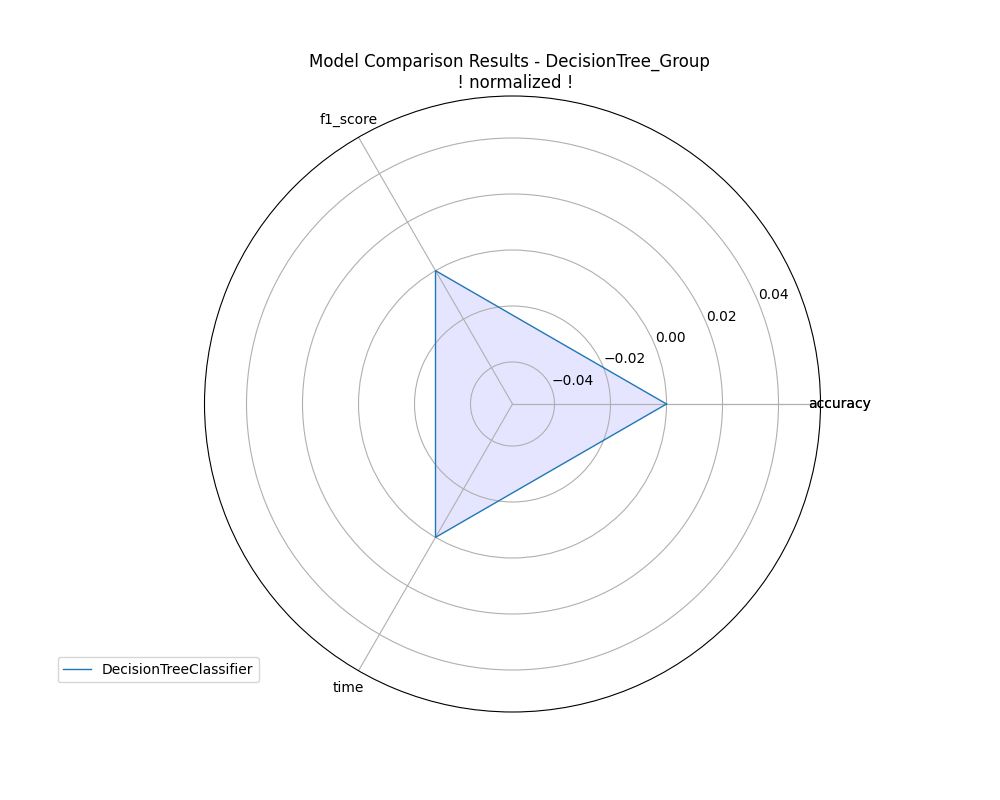
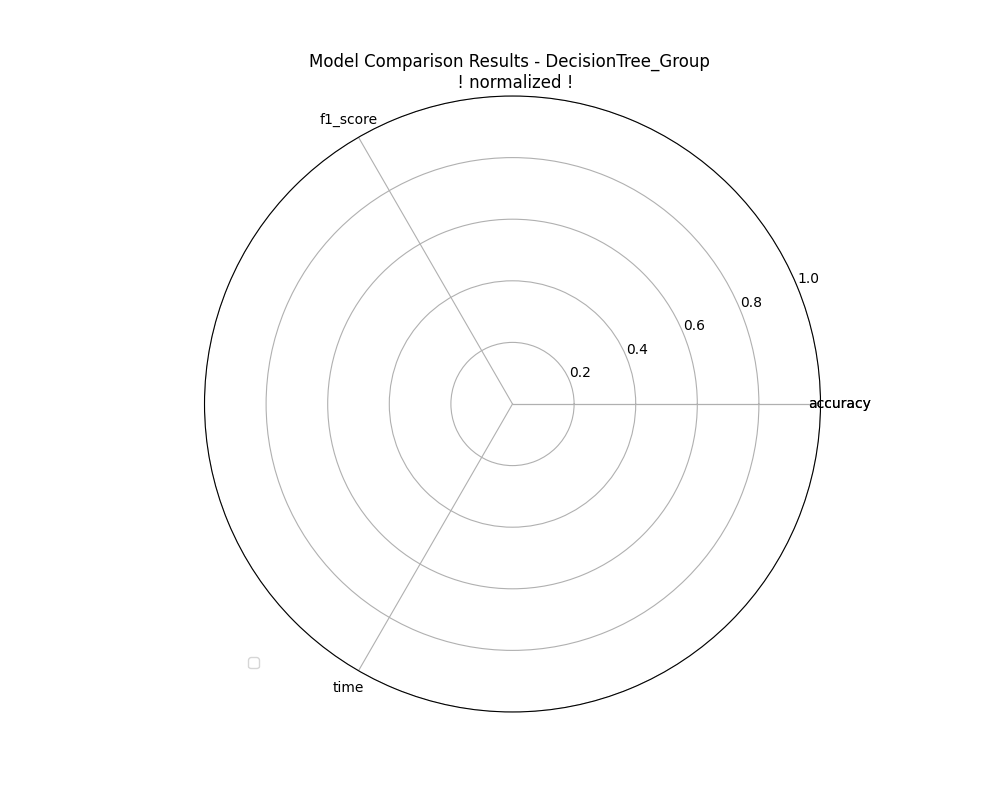
plot random forest

diff --git a/mainS.py b/mainS.py
@@ -25,6 +25,7 @@ from sklearn.linear_model import Lasso, Ridge
 from sklearn.svm import SVC
 from sklearn.tree import DecisionTreeClassifier
 from sklearn.ensemble import RandomForestClassifier
+from ML.forets.foret import RandomForest
 
 # imports customs functions
 from ML.regLasso.main import LassoRegressionCustom
@@ -34,15 +35,15 @@ from ML.SVM.supportvectormachine import SupportVectorMachineCustom
 from Pretreatment.ModelTrainer import ModelTrainer
 
 model_list = [
-    {"model": LassoRegressionCustom, "params": {"alpha": 0.01}, "type": "regr"},
-    {"model": RidgeRegressionCustom, "params": {"alpha": 0.01}, "type": "regr"},
-    {"model": Lasso, "params": {"alpha": 0.01}, "type": "regr"},
-    {"model": Ridge, "params": {"alpha": 0.01}, "type": "regr"},
-    #{"model": SVC, "params": {"kernel":"linear","random_state":42}, "type": "class"},
-    #{"model": SupportVectorMachineCustom, "params": {"learning_rate":0.005,"lambda_param":0.01,"n_iters":2000}, "type": "class"},
+    #{"model": LassoRegressionCustom, "params": {"alpha": 0.01}, "type": "regr"},
+    #{"model": RidgeRegressionCustom, "params": {"alpha": 0.01}, "type": "regr"},
+    #{"model": Lasso, "params": {"alpha": 0.01}, "type": "regr"},
+    #{"model": Ridge, "params": {"alpha": 0.01}, "type": "regr"},
+    {"model": SVC, "params": {"kernel":"linear","random_state":42}, "type": "class"},
+    {"model": SupportVectorMachineCustom, "params": {"learning_rate":0.005,"lambda_param":0.01,"n_iters":2000}, "type": "class"},
     #{"model": DecisionTreeClassifier, "params": {}, "type": "class"},
-    #{"model": RandomForestClassifier, "params": {"max_depth": 2,"random_state":42}, "type": "class"},
-    #{"model": RandomForestClassifier, "params": {"max_depth": 3,"random_state":42}, "type": "class"},
+    {"model": RandomForestClassifier, "params": {"max_depth": 2,"random_state":42}, "type": "class"},
+    {"model": RandomForest, "params": {"max_depth": 2,"n_estimators":100}, "type": "class"},
 
 ]
 

diff --git a/plot.py b/plot.py
@@ -10,7 +10,8 @@ model_groups = {
     'SVC_Group': ['SVC', 'SupportVectorMachineCustom'],
     'Ridge_Group': ['Ridge', 'RidgeRegressionCustom'],
     'Lasso_Group': ['Lasso', 'LassoRegressionCustom'],
-    'DecisionTree_Group': ['DecisionTreeClassifier']
+    'DecisionTree_Group': ['DecisionTreeClassifier'],
+    'RandomForest_Group' : ['RandomForestClassifier','RandomForest']
 }
 
 # Normalize the data
